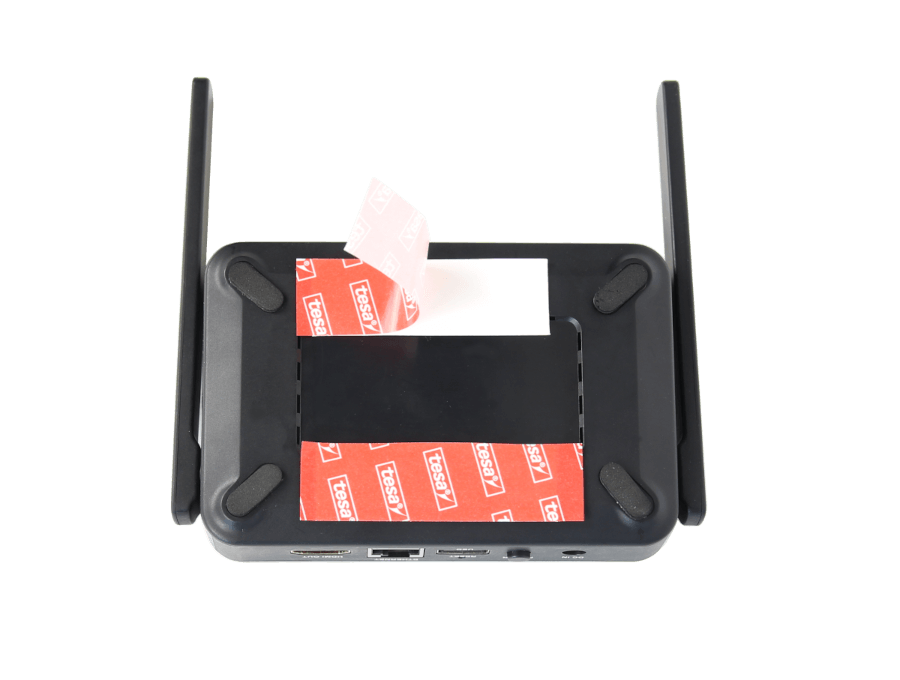
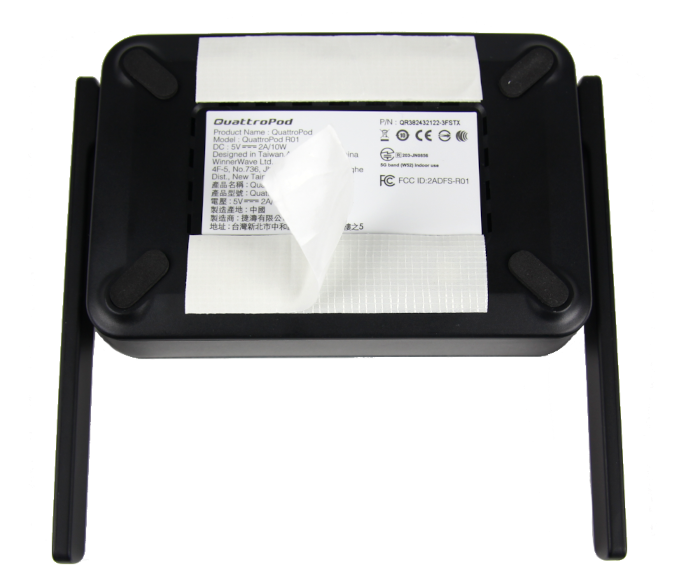
UHU Doppelband

diff --git a/docs/pro-stick-d10/setup-tipps.md b/docs/pro-stick-d10/setup-tipps.md
@@ -50,12 +50,20 @@ Mit einem [C14 to C13+Euro Y Type Splitter Adapter](https://www.amazon.de/dp/B07
 
 ![C14 to C13+Euro Y Type Splitter Adapter](/assets/img/C14toC13undEuroYType2.png)
 
-### Den Empfänger befestigen: Tesa Powerstrips
+### Den Empfänger befestigen: UHU Doppelband
 
-Klar kann man den Empfänger mit [Tesa Powerstrips](https://www.amazon.de/dp/B000KJOC78/ref=cm_sw_em_r_mt_dp_M4BQ8T1ZGDYH04NCHMJ3) gut befestigen, ohne den Bildschirm kaputt zu machen:
+Klar kann man den Empfänger mit [UHU Doppelband](https://www.amazon.de/dp/B08XY33P7Z/ref=cm_sw_em_r_mt_dp_ATTVGNT009VNJK1MEE60?_encoding=UTF8&psc=1) gut befestigen, ohne den Bildschirm kaputt zu machen:
 
-![C14 to C13+Euro Y Type Splitter Adapter](/assets/img/tesa1.png)
+![UHU Doppelband](/assets/img/tesa1.png)
 
-Bitte beachten: Stellen Sie bei der Befestigung des Empfängers sicher, dass zwischen der Antenne und dem Wireless Access Point sowie den Endgeräten eine direkte Sichtlinie besteht, um WLAN-Signalstörung zu vermeiden:
+![UHU Doppelband](/assets/img/tesa2.png)
 
-![C14 to C13+Euro Y Type Splitter Adapter](/assets/img/RX_mounted.png)
+!!! tip "Hinweis"
+    
+	Bitte beachten: Stellen Sie bei der Befestigung des Empfängers sicher, dass zwischen der Antenne und dem Wireless Access Point sowie den Endgeräten eine direkte Sichtlinie besteht, um WLAN-Signalstörung zu vermeiden.
+	
+![tesa montagepads](/assets/img/RX_mounted.png)
+
+![tesa montagepads](/assets/img/RX_mounted.wrong.png)
+
+![tesa montagepads](/assets/img/RX_mounted.huawei.png)

diff --git a/docs/pro-box-b10/setup-tipps.md b/docs/pro-box-b10/setup-tipps.md
@@ -50,13 +50,13 @@ Mit einem [C14 to C13+Euro Y Type Splitter Adapter](https://www.amazon.de/dp/B07
 
 ![C14 to C13+Euro Y Type Splitter Adapter](/assets/img/C14toC13undEuroYType2.png)
 
-### Den Empfänger befestigen: Tesa Montagepads
+### Den Empfänger befestigen: UHU Doppelband
 
-Klar kann man den Empfänger mit [Tesa Montagepads](https://www.amazon.de/dp/B08XY33P7Z/ref=cm_sw_em_r_mt_dp_ATTVGNT009VNJK1MEE60?_encoding=UTF8&psc=1) gut befestigen, ohne den Bildschirm kaputt zu machen:
+Klar kann man den Empfänger mit [UHU Doppelband](https://www.amazon.de/dp/B08XY33P7Z/ref=cm_sw_em_r_mt_dp_ATTVGNT009VNJK1MEE60?_encoding=UTF8&psc=1) gut befestigen, ohne den Bildschirm kaputt zu machen:
 
-![Tesa Montagepads](/assets/img/tesa1.png)
+![UHU Doppelband](/assets/img/tesa1.png)
 
-![Tesa Montagepads](/assets/img/tesa2.png)
+![UHU Doppelband](/assets/img/tesa2.png)
 
 !!! tip "Hinweis"
     
